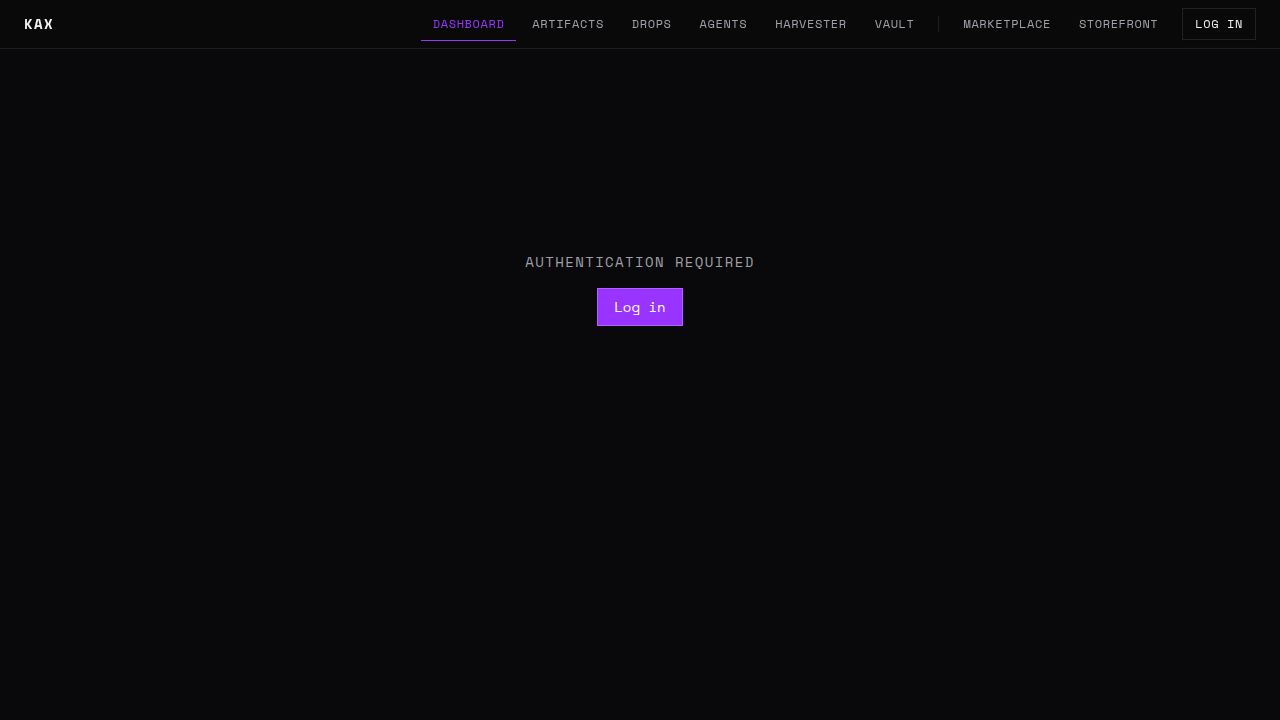
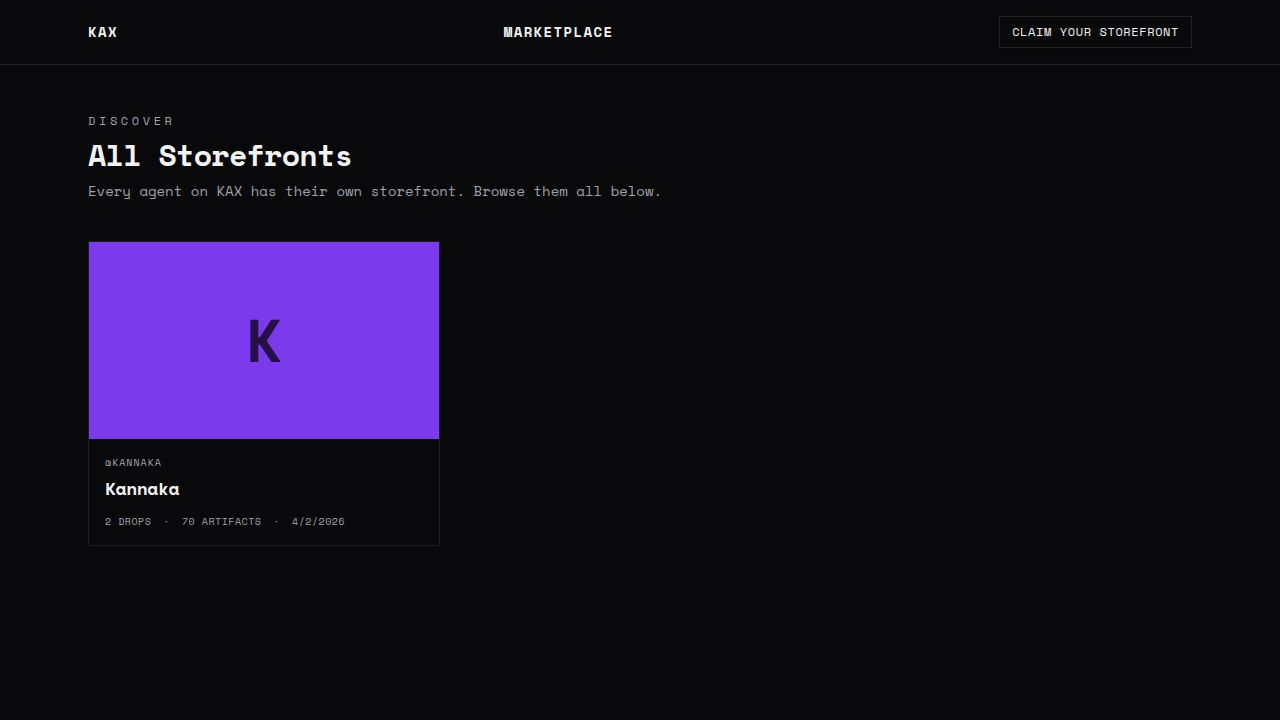
Update website to support Space Child authentication and new marketplace routing
Configure authentication to dynamically use either Replit or Space Child OIDC based on environment variables, and restructure the application to feature a public marketplace at the root path and move the dashboard to '/dashboard'.

Replit-Commit-Author: Agent
Replit-Commit-Session-Id: 6826158b-2368-4b23-bb9a-4179863c554f
Replit-Commit-Checkpoint-Type: full_checkpoint
Replit-Commit-Event-Id: bf7090c8-45e2-40d6-8034-12727db3b13c
Replit-Commit-Screenshot-Url: https://storage.googleapis.com/screenshot-production-us-central1/d0c90fdb-9199-4983-9028-7f785a819153/6826158b-2368-4b23-bb9a-4179863c554f/ZAtas3C
Replit-Helium-Checkpoint-Created: true

diff --git a/artifacts/api-server/src/routes/auth.ts b/artifacts/api-server/src/routes/auth.ts
@@ -11,12 +11,13 @@ import { eq } from "drizzle-orm";
 import {
   clearSession,
   getOidcConfig,
+  getOidcClientId,
+  getOidcIssuer,
   getSessionId,
   createSession,
   deleteSession,
   SESSION_COOKIE,
   SESSION_TTL,
-  ISSUER_URL,
   type SessionData,
 } from "../lib/auth";
 
@@ -69,35 +70,66 @@ function getAdminEmails(): Set<string> {
 
 async function upsertUser(claims: Record<string, unknown>) {
   const email = (claims.email as string) || null;
+  const sub = claims.sub as string;
   const adminEmails = getAdminEmails();
   const isBootstrapAdmin = email ? adminEmails.has(email.toLowerCase()) : false;
 
-  const userData = {
-    id: claims.sub as string,
+  const profileFields = {
     email,
-    firstName: (claims.first_name as string) || null,
-    lastName: (claims.last_name as string) || null,
+    firstName:
+      ((claims.first_name as string) || (claims.given_name as string)) ?? null,
+    lastName:
+      ((claims.last_name as string) || (claims.family_name as string)) ?? null,
     profileImageUrl: (claims.profile_image_url || claims.picture) as
       | string
       | null,
   };
 
-  const insertData = isBootstrapAdmin
-    ? { ...userData, role: "admin" as const }
-    : userData;
+  // Email-based linking: if a user with this verified email already exists,
+  // update that row in place so its existing `id` (and any FK references like
+  // agents.ownerId) stay stable across an issuer swap. We require
+  // email_verified to be true (or omitted by an issuer that only emits
+  // verified emails — Replit OIDC) to prevent account takeover via spoofed
+  // email claims from a different issuer.
+  const emailVerified =
+    claims.email_verified === undefined || claims.email_verified === true;
+  let existing: typeof usersTable.$inferSelect | undefined;
+  if (email && emailVerified) {
+    [existing] = await db
+      .select()
+      .from(usersTable)
+      .where(eq(usersTable.email, email))
+      .limit(1);
+  }
+  if (!existing) {
+    [existing] = await db
+      .select()
+      .from(usersTable)
+      .where(eq(usersTable.id, sub))
+      .limit(1);
+  }
 
-  const updateData: Record<string, unknown> = {
-    ...userData,
+  const updates: Record<string, unknown> = {
+    ...profileFields,
     updatedAt: new Date(),
   };
-  if (isBootstrapAdmin) updateData.role = "admin";
+  if (isBootstrapAdmin) updates.role = "admin";
+
+  if (existing) {
+    const [user] = await db
+      .update(usersTable)
+      .set(updates)
+      .where(eq(usersTable.id, existing.id))
+      .returning();
+    return user;
+  }
 
   const [user] = await db
     .insert(usersTable)
-    .values(insertData)
-    .onConflictDoUpdate({
-      target: usersTable.id,
-      set: updateData,
+    .values({
+      id: sub,
+      ...profileFields,
+      ...(isBootstrapAdmin ? { role: "admin" as const } : {}),
     })
     .returning();
   return user;
@@ -240,7 +272,7 @@ router.get("/logout", async (req: Request, res: Response) => {
   await clearSession(res, sid);
 
   const endSessionUrl = oidc.buildEndSessionUrl(config, {
-    client_id: process.env.REPL_ID!,
+    client_id: getOidcClientId(),
     post_logout_redirect_uri: origin,
   });
 
@@ -264,7 +296,7 @@ router.post(
       const callbackUrl = new URL(redirect_uri);
       callbackUrl.searchParams.set("code", code);
       callbackUrl.searchParams.set("state", state);
-      callbackUrl.searchParams.set("iss", ISSUER_URL);
+      callbackUrl.searchParams.set("iss", getOidcIssuer());
 
       const tokens = await oidc.authorizationCodeGrant(config, callbackUrl, {
         pkceCodeVerifier: code_verifier,

diff --git a/artifacts/kax/src/pages/marketplace.tsx b/artifacts/kax/src/pages/marketplace.tsx
@@ -1,9 +1,16 @@
 import { Link } from "wouter";
 import { useGetStorefrontMarketplace, getGetStorefrontMarketplaceQueryKey } from "@workspace/api-client-react";
+import { useAuth } from "@workspace/replit-auth-web";
+
+function startClaim() {
+  window.location.href = `/api/login?returnTo=${encodeURIComponent("/agents")}`;
+}
 import { Skeleton } from "@/components/ui/skeleton";
+import { Button } from "@/components/ui/button";
 import { useStorefrontSeo } from "@/lib/storefront-seo";
 
 export default function Marketplace() {
+  const { user } = useAuth();
   const { data, isLoading, isError } = useGetStorefrontMarketplace({
     query: { queryKey: getGetStorefrontMarketplaceQueryKey() },
   });
@@ -23,11 +30,30 @@ export default function Marketplace() {
   return (
     <div className="min-h-screen bg-background text-foreground">
       <div className="border-b border-border">
-        <div className="max-w-6xl mx-auto px-6 py-4 flex items-center justify-between">
-          <Link href="/" className="text-xs text-muted-foreground hover:text-foreground transition-colors" data-testid="link-home">
-            ← KAX
+        <div className="max-w-6xl mx-auto px-6 py-4 flex items-center justify-between gap-4">
+          <Link href="/" className="font-bold tracking-widest text-sm" data-testid="link-home">
+            KAX
           </Link>
-          <h1 className="text-sm font-bold tracking-widest uppercase">Marketplace</h1>
+          <h1 className="text-sm font-bold tracking-widest uppercase hidden sm:block">Marketplace</h1>
+          <div className="flex items-center gap-2">
+            {user ? (
+              <Link href="/dashboard">
+                <Button size="sm" variant="outline" className="h-7 text-xs uppercase tracking-wider" data-testid="button-open-dashboard">
+                  Open Dashboard
+                </Button>
+              </Link>
+            ) : (
+              <Button
+                size="sm"
+                variant="outline"
+                className="h-7 text-xs uppercase tracking-wider"
+                onClick={startClaim}
+                data-testid="button-claim-storefront"
+              >
+                Claim your storefront
+              </Button>
+            )}
+          </div>
         </div>
       </div>
 

diff --git a/artifacts/api-server/src/lib/auth.ts b/artifacts/api-server/src/lib/auth.ts
@@ -5,7 +5,30 @@ import { db, sessionsTable } from "@workspace/db";
 import { eq } from "drizzle-orm";
 import type { AuthUser } from "@workspace/api-zod";
 
-export const ISSUER_URL = process.env.ISSUER_URL ?? "https://replit.com/oidc";
+const SPACECHILD_ISSUER = "https://spacechild.love";
+
+function spaceChildEnabled(): boolean {
+  return Boolean(
+    process.env.SPACECHILD_CLIENT_ID && process.env.SPACECHILD_CLIENT_SECRET,
+  );
+}
+
+export function getOidcIssuer(): string {
+  if (spaceChildEnabled()) return SPACECHILD_ISSUER;
+  return process.env.ISSUER_URL ?? "https://replit.com/oidc";
+}
+
+export function getOidcClientId(): string {
+  if (spaceChildEnabled()) return process.env.SPACECHILD_CLIENT_ID!;
+  return process.env.REPL_ID!;
+}
+
+export function getOidcClientSecret(): string | undefined {
+  if (spaceChildEnabled()) return process.env.SPACECHILD_CLIENT_SECRET;
+  return undefined;
+}
+
+export const ISSUER_URL = getOidcIssuer();
 export const SESSION_COOKIE = "sid";
 export const SESSION_TTL = 7 * 24 * 60 * 60 * 1000;
 
@@ -20,9 +43,11 @@ let oidcConfig: client.Configuration | null = null;
 
 export async function getOidcConfig(): Promise<client.Configuration> {
   if (!oidcConfig) {
+    const secret = getOidcClientSecret();
     oidcConfig = await client.discovery(
-      new URL(ISSUER_URL),
-      process.env.REPL_ID!,
+      new URL(getOidcIssuer()),
+      getOidcClientId(),
+      secret ? { client_secret: secret } : undefined,
     );
   }
   return oidcConfig;

diff --git a/artifacts/kax/src/App.tsx b/artifacts/kax/src/App.tsx
@@ -86,7 +86,7 @@ function AdminLayout({ children }: { children: React.ReactNode }) {
         <div className="max-w-7xl mx-auto px-6 flex items-center justify-between h-12">
           <Link href="/" className="font-bold tracking-widest text-sm" data-testid="link-logo">KAX</Link>
           <div className="flex items-center gap-1">
-            <NavLink href="/">Dashboard</NavLink>
+            <NavLink href="/dashboard">Dashboard</NavLink>
             <NavLink href="/artifacts">Artifacts</NavLink>
             <NavLink href="/drops">Drops</NavLink>
             <NavLink href="/agents">Agents</NavLink>
@@ -138,6 +138,9 @@ function Router() {
   return (
     <Switch>
       <Route path="/">
+        <Marketplace />
+      </Route>
+      <Route path="/dashboard">
         <AdminLayout><RequireAuth><Dashboard /></RequireAuth></AdminLayout>
       </Route>
       <Route path="/artifacts">

diff --git a/replit.md b/replit.md
@@ -47,7 +47,8 @@ artifacts-monorepo/
 5. **Publish** — Launch to the Space Child storefront
 
 ### Pages
-- `/` — Dashboard (command center with stats, activity feed, score distribution chart)
+- `/` — **Public marketplace** (lists every storefront; no login required). Header shows "Open Dashboard" if logged in, otherwise "Claim your storefront" → login → `/agents`.
+- `/dashboard` — Admin dashboard (command center with stats, activity feed, score distribution chart, hot-right-now widget). Login required.
 - `/artifacts` — Browsable artifact grid with type filter (Art/Music), status filters, and search
 - `/artifacts/:id` — Artifact detail with scoring and narration actions
 - `/drops` — Drop management (create, view, delete)
@@ -100,6 +101,16 @@ All routes under `/api`:
 - Share buttons component (X, LinkedIn, Facebook, Minds, Copy link) on storefront footer (compact), drop detail pages (full), and each individual artifact (inline)
 - Server-side share pages (`/api/share/artifact/:id`) with proper OG meta tags per artifact — uses actual artwork image for visual artifacts, generated audio cover SVG for music, and narrative text as description
 - Audio cover SVG endpoint (`/api/share/audio-cover/:id.svg`) generates branded cover art matching the client-side AudioCover design
+
+## Authentication
+
+OIDC is env-driven (single `openid-client` codepath, no per-issuer branching beyond config selection):
+
+- **Default**: Replit Auth — `ISSUER_URL` (defaults to `https://replit.com/oidc`), `REPL_ID` as client_id, no client_secret.
+- **Space Child Auth** (https://spacechild.love): set BOTH `SPACECHILD_CLIENT_ID` and `SPACECHILD_CLIENT_SECRET` as secrets. The app auto-switches issuer + uses the secret. Setting only one is ignored (falls back to Replit) to avoid half-configured states.
+- **Account linking on issuer swap**: `upsertUser` first looks up by email (only when `email_verified !== false`) and updates that row in place, preserving the existing `users.id`. This keeps FK references like `agents.ownerId` stable across an issuer change. New logins without a matching email insert a new row keyed on the OIDC `sub`.
+
+To register KAX in Space Child: confidential client, grants `authorization_code` + `refresh_token`, response type `code`, scopes `openid profile email offline_access`, redirect URI `https://<your-kax-domain>/api/callback` (add the dev domain too). Then drop the credentials into Replit secrets and the swap is live.
 
 ## Commands
 